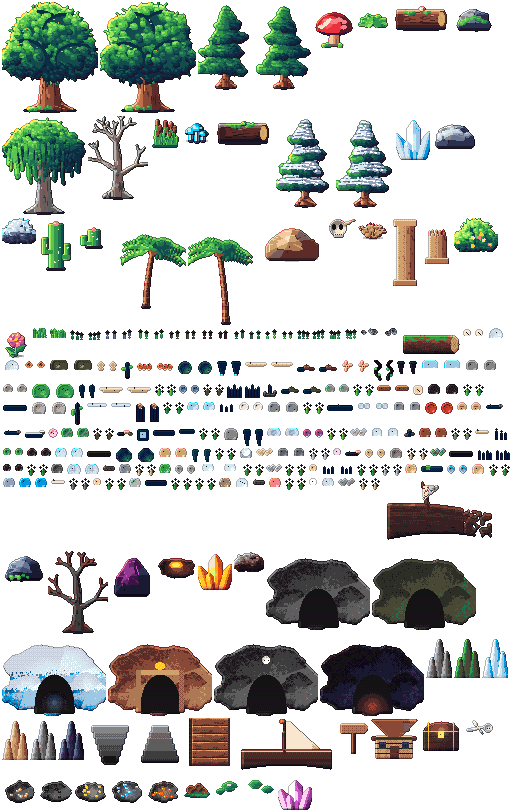
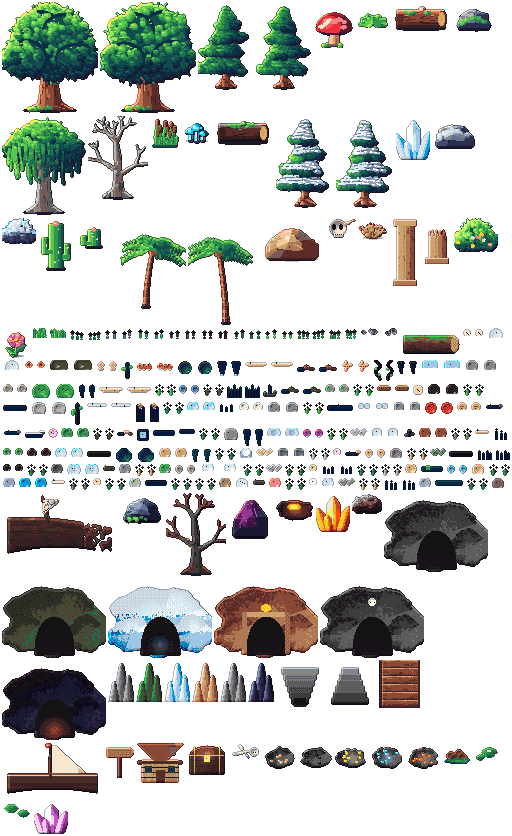
Ciclos 321-330/1000: 5 props (atlas 312) + testes vilas/cavernas + evento concha na praia + dica

diff --git a/src/game/RegionWorld.js b/src/game/RegionWorld.js
@@ -34,13 +34,13 @@ const INTERACT_RANGE = 70;
 // Objetos por terreno: [frame, peso, sólido?]. Sólido = base que bloqueia (largura, altura).
 const PROPS = {
   [T.FOREST]: { density: 0.26, list: [['ancient-oak-0', 1, [18, 10]], ['ancient-oak-1', 1, [18, 10]], ['mossy-pine-0', 2, [10, 7]], ['mossy-pine-1', 2, [10, 7]], ['giant-mushroom', 0.6, [10, 6]], ['fern', 3], ['fallen-log', 0.6, [40, 10]], ['mossy-rock', 1, [24, 10]], ['grass-tuft-0', 4], ['grass-tuft-1', 4], ['flower-tuft-0', 1.2], ['flower-tuft-1', 1.2], ['forest-flower-0', 0.8], ['forest-flower-1', 0.8], ['pebbles-0', 0.7], ['pebbles-1', 0.7], ['mushroom-cluster-0', 0.5], ['mushroom-cluster-1', 0.5], ['berry-bush-0', 0.6], ['berry-bush-1', 0.6], ['yellow-flower-0', 0.7], ['yellow-flower-1', 0.7], ['bark-scrap-0', 0.5], ['bark-scrap-1', 0.5], ['pink-flower-0', 0.6], ['pink-flower-1', 0.6], ['rotten-log', 0.4, [30, 9]], ['red-cap-0', 0.4], ['red-cap-1', 0.4], ['tan-shroom-0', 0.4], ['tan-shroom-1', 0.4], ['mossy-log', 0.35, [28, 8]], ['light-purple-flower-0', 0.5], ['light-purple-flower-1', 0.5], ['peach-forest-flower-0', 0.5], ['peach-forest-flower-1', 0.5], ['dark-bark', 0.5], ['blush-forest-flower-0', 0.5], ['blush-forest-flower-1', 0.5], ['forest-gravel', 0.6], ['forest-boulder', 0.3, [14, 8]]] },
-  [T.SWAMP]: { density: 0.17, list: [['willow', 1.4, [14, 9]], ['dead-tree', 1.4, [10, 7]], ['reeds', 3], ['swamp-shroom', 1.2], ['bog-log', 0.5, [40, 10]], ['mossy-rock', 0.5, [24, 10]], ['grass-tuft-0', 3], ['flower-tuft-1', 0.6], ['swamp-flower-0', 0.6], ['swamp-flower-1', 0.6], ['mud-puddle-0', 0.5], ['mud-puddle-1', 0.5], ['twisted-root-0', 0.5], ['twisted-root-1', 0.5], ['river-stone-0', 0.5, [10, 6]], ['river-stone-1', 0.5, [10, 6]], ['blue-mushroom-0', 0.5], ['blue-mushroom-1', 0.5], ['moss-pebble-0', 0.6], ['moss-pebble-1', 0.6], ['reed-0', 0.7], ['reed-1', 0.7], ['green-stone-0', 0.5, [10, 6]], ['green-stone-1', 0.5, [10, 6]], ['lilac-flower-0', 0.5], ['lilac-flower-1', 0.5], ['swamp-root', 0.5], ['swamp-pebble-0', 0.5], ['swamp-pebble-1', 0.5], ['yellow-swamp-flower-0', 0.5], ['yellow-swamp-flower-1', 0.5], ['swamp-gravel', 0.6], ['pink-swamp-flower-0', 0.5], ['pink-swamp-flower-1', 0.5], ['dark-river-stone', 0.5, [10, 6]], ['gray-shroom-0', 0.4], ['gray-shroom-1', 0.4], ['white-swamp-flower-0', 0.5], ['white-swamp-flower-1', 0.5], ['light-blue-shroom-0', 0.4], ['light-blue-shroom-1', 0.4], ['light-river-stone', 0.5, [10, 6]], ['blue-swamp-flower-0', 0.5], ['blue-swamp-flower-1', 0.5], ['orange-swamp-flower-0', 0.5], ['orange-swamp-flower-1', 0.5]] },
-  [T.SNOW]: { density: 0.15, list: [['snow-pine-0', 2, [10, 7]], ['snow-pine-1', 2, [10, 7]], ['ice-crystal', 1, [16, 8]], ['snow-rock', 1.4, [28, 10]], ['frozen-bush', 1.4], ['grass-tuft-1', 1.5], ['snow-flower-0', 0.8], ['snow-flower-1', 0.8], ['pebbles-0', 0.5], ['pebbles-1', 0.5], ['frozen-log', 0.5, [40, 10]], ['snow-mound-0', 0.6], ['snow-mound-1', 0.6], ['ice-shard-0', 0.6, [6, 10]], ['ice-shard-1', 0.6, [6, 10]], ['ice-spike-0', 0.6, [4, 8]], ['ice-spike-1', 0.6, [4, 8]], ['white-flower-0', 0.6], ['white-flower-1', 0.6], ['blue-ice-0', 0.5], ['blue-ice-1', 0.5], ['snow-track-0', 0.6], ['snow-track-1', 0.6], ['snow-branch', 0.4, [24, 10]], ['carved-ice', 0.4, [10, 10]], ['snow-hollow-0', 0.5], ['snow-hollow-1', 0.5], ['snow-pile-0', 0.5], ['snow-pile-1', 0.5], ['blue-snow-flower-0', 0.5], ['blue-snow-flower-1', 0.5], ['clear-ice-rock-0', 0.5, [10, 6]], ['clear-ice-rock-1', 0.5, [10, 6]], ['snow-covered-rock', 0.4, [12, 7]], ['lilac-ice-flower-0', 0.5], ['lilac-ice-flower-1', 0.5], ['ice-log', 0.35, [30, 9]], ['cracked-ice-0', 0.5], ['cracked-ice-1', 0.5], ['wind-snow-0', 0.5], ['wind-snow-1', 0.5], ['mint-ice-flower-0', 0.5], ['mint-ice-flower-1', 0.5], ['deep-blue-ice-0', 0.5], ['deep-blue-ice-1', 0.5], ['flowered-snow', 0.5], ['pale-blue-ice', 0.5]] },
+  [T.SWAMP]: { density: 0.17, list: [['willow', 1.4, [14, 9]], ['dead-tree', 1.4, [10, 7]], ['reeds', 3], ['swamp-shroom', 1.2], ['bog-log', 0.5, [40, 10]], ['mossy-rock', 0.5, [24, 10]], ['grass-tuft-0', 3], ['flower-tuft-1', 0.6], ['swamp-flower-0', 0.6], ['swamp-flower-1', 0.6], ['mud-puddle-0', 0.5], ['mud-puddle-1', 0.5], ['twisted-root-0', 0.5], ['twisted-root-1', 0.5], ['river-stone-0', 0.5, [10, 6]], ['river-stone-1', 0.5, [10, 6]], ['blue-mushroom-0', 0.5], ['blue-mushroom-1', 0.5], ['moss-pebble-0', 0.6], ['moss-pebble-1', 0.6], ['reed-0', 0.7], ['reed-1', 0.7], ['green-stone-0', 0.5, [10, 6]], ['green-stone-1', 0.5, [10, 6]], ['lilac-flower-0', 0.5], ['lilac-flower-1', 0.5], ['swamp-root', 0.5], ['swamp-pebble-0', 0.5], ['swamp-pebble-1', 0.5], ['yellow-swamp-flower-0', 0.5], ['yellow-swamp-flower-1', 0.5], ['swamp-gravel', 0.6], ['pink-swamp-flower-0', 0.5], ['pink-swamp-flower-1', 0.5], ['dark-river-stone', 0.5, [10, 6]], ['gray-shroom-0', 0.4], ['gray-shroom-1', 0.4], ['white-swamp-flower-0', 0.5], ['white-swamp-flower-1', 0.5], ['light-blue-shroom-0', 0.4], ['light-blue-shroom-1', 0.4], ['light-river-stone', 0.5, [10, 6]], ['blue-swamp-flower-0', 0.5], ['blue-swamp-flower-1', 0.5], ['orange-swamp-flower-0', 0.5], ['orange-swamp-flower-1', 0.5], ['teal-swamp-flower-0', 0.5], ['teal-swamp-flower-1', 0.5]] },
+  [T.SNOW]: { density: 0.15, list: [['snow-pine-0', 2, [10, 7]], ['snow-pine-1', 2, [10, 7]], ['ice-crystal', 1, [16, 8]], ['snow-rock', 1.4, [28, 10]], ['frozen-bush', 1.4], ['grass-tuft-1', 1.5], ['snow-flower-0', 0.8], ['snow-flower-1', 0.8], ['pebbles-0', 0.5], ['pebbles-1', 0.5], ['frozen-log', 0.5, [40, 10]], ['snow-mound-0', 0.6], ['snow-mound-1', 0.6], ['ice-shard-0', 0.6, [6, 10]], ['ice-shard-1', 0.6, [6, 10]], ['ice-spike-0', 0.6, [4, 8]], ['ice-spike-1', 0.6, [4, 8]], ['white-flower-0', 0.6], ['white-flower-1', 0.6], ['blue-ice-0', 0.5], ['blue-ice-1', 0.5], ['snow-track-0', 0.6], ['snow-track-1', 0.6], ['snow-branch', 0.4, [24, 10]], ['carved-ice', 0.4, [10, 10]], ['snow-hollow-0', 0.5], ['snow-hollow-1', 0.5], ['snow-pile-0', 0.5], ['snow-pile-1', 0.5], ['blue-snow-flower-0', 0.5], ['blue-snow-flower-1', 0.5], ['clear-ice-rock-0', 0.5, [10, 6]], ['clear-ice-rock-1', 0.5, [10, 6]], ['snow-covered-rock', 0.4, [12, 7]], ['lilac-ice-flower-0', 0.5], ['lilac-ice-flower-1', 0.5], ['ice-log', 0.35, [30, 9]], ['cracked-ice-0', 0.5], ['cracked-ice-1', 0.5], ['wind-snow-0', 0.5], ['wind-snow-1', 0.5], ['mint-ice-flower-0', 0.5], ['mint-ice-flower-1', 0.5], ['deep-blue-ice-0', 0.5], ['deep-blue-ice-1', 0.5], ['flowered-snow', 0.5], ['pale-blue-ice', 0.5], ['gray-snow-rock', 0.5, [10, 6]]] },
   [T.SAND]: { density: 0.07, list: [['cactus', 2, [12, 7]], ['cactus-small', 2, [10, 6]], ['desert-rock', 1, [40, 12]], ['skull', 0.7], ['dry-bush', 2], ['ruin-pillar', 0.3, [18, 8]], ['ruin-pillar-broken', 0.4, [18, 8]], ['grass-tuft-0', 1.5], ['dune-flower-0', 0.7], ['dune-flower-1', 0.7], ['pebbles-0', 0.6], ['pebbles-1', 0.6], ['blooming-cactus', 0.4, [12, 7]], ['tall-cactus', 0.35, [10, 12]], ['footprint-0', 0.4], ['footprint-1', 0.4], ['desert-bloom-0', 0.5], ['desert-bloom-1', 0.5], ['carved-pebble-0', 0.5], ['carved-pebble-1', 0.5], ['dry-log', 0.4, [28, 8]], ['white-desert-flower-0', 0.5], ['white-desert-flower-1', 0.5], ['desert-stone-0', 0.5, [10, 6]], ['desert-stone-1', 0.5, [10, 6]], ['pink-dune-flower-0', 0.5], ['pink-dune-flower-1', 0.5], ['lilac-dune-flower-0', 0.5], ['lilac-dune-flower-1', 0.5], ['red-dune-flower-0', 0.5], ['red-dune-flower-1', 0.5]] },
   [T.DUNE]: { density: 0.03, list: [['dry-bush', 1], ['skull', 0.4], ['cactus-small', 0.5, [10, 6]], ['grass-tuft-1', 1], ['dune-flower-0', 0.5], ['dune-flower-1', 0.5], ['footprint-0', 0.5], ['footprint-1', 0.5], ['small-rock-0', 0.5], ['small-rock-1', 0.5], ['dune-wave-0', 0.6], ['dune-wave-1', 0.6], ['tall-grass-0', 0.6], ['tall-grass-1', 0.6], ['dry-bush-2', 0.7], ['dune-root', 0.5], ['dune-bloom', 0.5], ['dune-gravel', 0.6], ['dry-branch', 0.5], ['light-dune-pebble', 0.6], ['round-dune-rock', 0.4, [12, 7]], ['pink-dune-pebble', 0.6], ['dark-dune-stone', 0.5, [10, 6]]] },
-  [T.BEACH]: { density: 0.06, list: [['palm-0', 1.5, [8, 6]], ['palm-1', 1.5, [8, 6]], ['sea-rock', 1, [28, 10]], ['big-flower', 0.3], ['flower-tuft-0', 1.5], ['grass-tuft-0', 2], ['beach-flower-0', 0.7], ['beach-flower-1', 0.7], ['shell-0', 0.6], ['shell-1', 0.6], ['sand-ripple-0', 0.8], ['sand-ripple-1', 0.8], ['starfish-0', 0.4], ['starfish-1', 0.4], ['tide-puddle-0', 0.4], ['tide-puddle-1', 0.4], ['broken-anchor', 0.25, [12, 10]], ['spiral-shell', 0.4], ['beach-boulder-0', 0.3, [14, 8]], ['beach-boulder-1', 0.3, [14, 8]], ['sea-foam-0', 0.5], ['sea-foam-1', 0.5], ['pale-stone-0', 0.5], ['pale-stone-1', 0.5], ['tide-rock-0', 0.5, [10, 6]], ['tide-rock-1', 0.5, [10, 6]], ['pink-shell', 0.4], ['driftwood', 0.4], ['beach-gravel', 0.6], ['pale-bark', 0.4], ['wreck-log', 0.3, [30, 9]], ['wet-stone-0', 0.5, [10, 6]], ['wet-stone-1', 0.5, [10, 6]], ['pink-pebble', 0.5], ['sea-grass-0', 0.6], ['sea-grass-1', 0.6], ['shipwreck', 0.2, [30, 12]], ['blue-gray-stone', 0.5, [10, 6]], ['green-beach-stone', 0.5, [10, 6]], ['dry-sea-bush-0', 0.5], ['dry-sea-bush-1', 0.5], ['yellow-beach-stone', 0.5, [10, 6]], ['light-beach-bark', 0.4], ['pale-green-stone', 0.5, [10, 6]], ['rose-beach-stone', 0.5, [10, 6]], ['white-beach-pebble', 0.6]] },
+  [T.BEACH]: { density: 0.06, list: [['palm-0', 1.5, [8, 6]], ['palm-1', 1.5, [8, 6]], ['sea-rock', 1, [28, 10]], ['big-flower', 0.3], ['flower-tuft-0', 1.5], ['grass-tuft-0', 2], ['beach-flower-0', 0.7], ['beach-flower-1', 0.7], ['shell-0', 0.6], ['shell-1', 0.6], ['sand-ripple-0', 0.8], ['sand-ripple-1', 0.8], ['starfish-0', 0.4], ['starfish-1', 0.4], ['tide-puddle-0', 0.4], ['tide-puddle-1', 0.4], ['broken-anchor', 0.25, [12, 10]], ['spiral-shell', 0.4], ['beach-boulder-0', 0.3, [14, 8]], ['beach-boulder-1', 0.3, [14, 8]], ['sea-foam-0', 0.5], ['sea-foam-1', 0.5], ['pale-stone-0', 0.5], ['pale-stone-1', 0.5], ['tide-rock-0', 0.5, [10, 6]], ['tide-rock-1', 0.5, [10, 6]], ['pink-shell', 0.4], ['driftwood', 0.4], ['beach-gravel', 0.6], ['pale-bark', 0.4], ['wreck-log', 0.3, [30, 9]], ['wet-stone-0', 0.5, [10, 6]], ['wet-stone-1', 0.5, [10, 6]], ['pink-pebble', 0.5], ['sea-grass-0', 0.6], ['sea-grass-1', 0.6], ['shipwreck', 0.2, [30, 12]], ['blue-gray-stone', 0.5, [10, 6]], ['green-beach-stone', 0.5, [10, 6]], ['dry-sea-bush-0', 0.5], ['dry-sea-bush-1', 0.5], ['yellow-beach-stone', 0.5, [10, 6]], ['light-beach-bark', 0.4], ['pale-green-stone', 0.5, [10, 6]], ['rose-beach-stone', 0.5, [10, 6]], ['white-beach-pebble', 0.6], ['pink-sea-bush-0', 0.5], ['pink-sea-bush-1', 0.5], ['long-beach-log', 0.25, [34, 8]]] },
   [T.JUNGLE]: { density: 0.17, list: [['palm-0', 1.5, [8, 6]], ['palm-1', 1.5, [8, 6]], ['tropical-bush', 3], ['big-flower', 2], ['sea-rock', 0.4, [28, 10]], ['grass-tuft-0', 3], ['grass-tuft-1', 3], ['flower-tuft-1', 2], ['jungle-flower-0', 0.8], ['jungle-flower-1', 0.8], ['vine-0', 0.7], ['vine-1', 0.7], ['jungle-root-0', 0.5], ['jungle-root-1', 0.5], ['purple-flower-0', 0.6], ['purple-flower-1', 0.6], ['jungle-log', 0.4, [32, 9]], ['purple-shroom-0', 0.4], ['purple-shroom-1', 0.4], ['jungle-bush-0', 0.6], ['jungle-bush-1', 0.6], ['orange-jungle-flower-0', 0.5], ['orange-jungle-flower-1', 0.5], ['yellow-jungle-flower-0', 0.5], ['yellow-jungle-flower-1', 0.5]] },
-  [T.ASH]: { density: 0.11, list: [['charred-tree', 2, [10, 7]], ['obsidian', 2, [28, 12]], ['lava-vent', 1], ['fire-crystal', 0.8, [14, 8]], ['ash-bush', 2], ['grass-tuft-1', 0.8], ['ash-flower-0', 0.5], ['ash-flower-1', 0.5], ['pebbles-0', 0.5], ['pebbles-1', 0.5], ['ember-0', 0.8], ['ember-1', 0.8], ['obsidian-shard-0', 0.5, [5, 8]], ['obsidian-shard-1', 0.5, [5, 8]], ['ember-flower-0', 0.5], ['ember-flower-1', 0.5], ['lava-rock-0', 0.5, [12, 6]], ['lava-rock-1', 0.5, [12, 6]], ['granite-0', 0.5, [12, 6]], ['granite-1', 0.5, [12, 6]], ['orange-flower-0', 0.5], ['orange-flower-1', 0.5], ['ash-spike-0', 0.5, [5, 10]], ['ash-spike-1', 0.5, [5, 10]], ['red-stone-0', 0.5, [10, 6]], ['red-stone-1', 0.5, [10, 6]], ['hot-ash-0', 0.6], ['hot-ash-1', 0.6], ['ash-crystal-0', 0.4, [5, 8]], ['ash-crystal-1', 0.4, [5, 8]], ['pale-ash-rock', 0.4, [12, 7]], ['small-lava-rock-0', 0.5], ['small-lava-rock-1', 0.5], ['light-ash-gravel', 0.6], ['white-ash-flower-0', 0.5], ['white-ash-flower-1', 0.5], ['ash-log', 0.35, [28, 8]], ['ash-bark', 0.5]] },
+  [T.ASH]: { density: 0.11, list: [['charred-tree', 2, [10, 7]], ['obsidian', 2, [28, 12]], ['lava-vent', 1], ['fire-crystal', 0.8, [14, 8]], ['ash-bush', 2], ['grass-tuft-1', 0.8], ['ash-flower-0', 0.5], ['ash-flower-1', 0.5], ['pebbles-0', 0.5], ['pebbles-1', 0.5], ['ember-0', 0.8], ['ember-1', 0.8], ['obsidian-shard-0', 0.5, [5, 8]], ['obsidian-shard-1', 0.5, [5, 8]], ['ember-flower-0', 0.5], ['ember-flower-1', 0.5], ['lava-rock-0', 0.5, [12, 6]], ['lava-rock-1', 0.5, [12, 6]], ['granite-0', 0.5, [12, 6]], ['granite-1', 0.5, [12, 6]], ['orange-flower-0', 0.5], ['orange-flower-1', 0.5], ['ash-spike-0', 0.5, [5, 10]], ['ash-spike-1', 0.5, [5, 10]], ['red-stone-0', 0.5, [10, 6]], ['red-stone-1', 0.5, [10, 6]], ['hot-ash-0', 0.6], ['hot-ash-1', 0.6], ['ash-crystal-0', 0.4, [5, 8]], ['ash-crystal-1', 0.4, [5, 8]], ['pale-ash-rock', 0.4, [12, 7]], ['small-lava-rock-0', 0.5], ['small-lava-rock-1', 0.5], ['light-ash-gravel', 0.6], ['white-ash-flower-0', 0.5], ['white-ash-flower-1', 0.5], ['ash-log', 0.35, [28, 8]], ['ash-bark', 0.5], ['red-ash-rock', 0.4, [12, 7]]] },
 };
 const NODE_DENSITY = 0.011;
 // Objetos que brilham no escuro (iluminam a noite e as cavernas).

diff --git a/src/art/biomeProps.js b/src/art/biomeProps.js
@@ -858,6 +858,51 @@ function flowerTuft(seed = 402) {
   return finish(p, { outline: 0.3 });
 }
 
+/** Arbusto de praia com flor rosa. */
+function pinkSeaBush(seed = 1537) {
+  const p = new Painter(16, 12, { transparent: true });
+  const c = ['#5a8a6a', '#7aa888'];
+  for (const [bx, h] of [[4, 9], [9, 7], [13, 8]]) {
+    for (let y = 11; y > 11 - h; y -= 2) p.rect(bx, y, 1, 2, shade([c[0], c[1]], 0.5));
+  }
+  p.set(9, 3, '#ff90b8');
+  return finish(p, { outline: 0.35 });
+}
+
+/** Pedra de neve cinza. */
+function graySnowRock(seed = 1541) {
+  const p = new Painter(14, 9, { transparent: true });
+  p.sphere(7, 5, 5, '#8a9098', '#a8b0b8');
+  p.set(5, 3, '#c8d0d8');
+  return finish(p, { outline: 0.35 });
+}
+
+/** Tronco de praia (madeira clara longa). */
+function longBeachLog(seed = 1547) {
+  const p = new Painter(30, 9, { transparent: true });
+  const wood = ['#b8a888', '#d0c4a8'];
+  p.rect(2, 3, 26, 4, shade([wood[0], wood[1]], 0.5));
+  p.set(2, 3, '#9a8a6c'); p.set(27, 6, '#9a8a6c');
+  return finish(p, { outline: 0.35 });
+}
+
+/** Flor do brejo verde-água. */
+function tealSwampFlower(seed = 1551) {
+  const p = new Painter(10, 12, { transparent: true });
+  p.rect(4, 6, 2, 5, '#4a6a34');
+  for (const [dx, dy] of [[-3, -2], [3, -2], [-2, 2], [2, 2], [0, -4]]) p.set(5 + dx, 5 + dy, '#40c8b0');
+  p.set(5, 5, '#f0fffa');
+  return finish(p, { outline: 0.3 });
+}
+
+/** Pedregulho de cinza avermelhado. */
+function redAshRock(seed = 1557) {
+  const p = new Painter(16, 10, { transparent: true });
+  p.sphere(8, 6, 5.5, '#6e5050', '#8a6868');
+  p.set(6, 4, '#a88888');
+  return finish(p, { outline: 0.35 });
+}
+
 /** Flor da floresta laranja clara. */
 function peachForestFlower(seed = 1507) {
   const p = new Painter(10, 12, { transparent: true });
@@ -2473,6 +2518,13 @@ const PAINTED_ENTRIES = [
   { name: 'forest-gravel', draw: () => forestGravel(1521) },
   { name: 'red-dune-flower-0', draw: () => redDuneFlower(1527) },
   { name: 'red-dune-flower-1', draw: () => redDuneFlower(1529) },
+  { name: 'pink-sea-bush-0', draw: () => pinkSeaBush(1537) },
+  { name: 'pink-sea-bush-1', draw: () => pinkSeaBush(1539) },
+  { name: 'gray-snow-rock', draw: () => graySnowRock(1541) },
+  { name: 'long-beach-log', draw: () => longBeachLog(1547) },
+  { name: 'teal-swamp-flower-0', draw: () => tealSwampFlower(1551) },
+  { name: 'teal-swamp-flower-1', draw: () => tealSwampFlower(1553) },
+  { name: 'red-ash-rock', draw: () => redAshRock(1557) },
   { name: 'shipwreck', draw: shipwreck },
   { name: 'sea-rock', draw: seaRock },
   { name: 'charred-tree', draw: () => deadTree(['#0c0808', '#1a1010', '#2a1a16', '#3a2620', '#4a3228'], true) },

diff --git a/tests/simulacao.test.js b/tests/simulacao.test.js
@@ -1172,6 +1172,27 @@ test('simulação: inventário — add respeita limite de slots e serialize faz 
   assert.equal(inv2.items.wood, 1100, 'serialize preserva itens');
 });
 
+test('simulação: vilas — têm nome, posição válida, não bloqueantes e dentro do mapa', () => {
+  assert.ok(VILLAGES.length >= 5, 'poucas vilas');
+  for (const v of VILLAGES) {
+    assert.ok(v.name && v.name.length > 2, 'vila sem nome');
+    assert.ok(v.x > 0 && v.x < WORLD_COLS * TILE && v.y > 0 && v.y < OVERWORLD_ROWS * TILE, `${v.name} fora do mapa`);
+    assert.ok(![T.SEA, T.LAVA, T.WALL, T.VOID].includes(terrainAt(v.x, v.y)), `${v.name} em terreno bloqueante`);
+  }
+  // nomes únicos
+  assert.equal(new Set(VILLAGES.map((v) => v.name)).size, VILLAGES.length, 'nomes de vilas repetidos');
+});
+
+test('simulação: cavernas — entrada válida, não bloqueante, dentro do mapa; boss válido', () => {
+  assert.ok(CAVES.length >= 8, 'poucas cavernas');
+  for (const c of CAVES) {
+    const e = c.entrance ?? { x: c.x, y: c.y };
+    assert.ok(e.x > 0 && e.x < WORLD_COLS * TILE && e.y > 0 && e.y < OVERWORLD_ROWS * TILE, `${c.name} fora do mapa`);
+    assert.ok(![T.SEA, T.LAVA, T.WALL, T.VOID].includes(terrainAt(e.x, e.y)), `${c.name} entrada bloqueante`);
+    if (c.boss) assert.ok(ENEMY_TYPES[c.boss], `${c.name} boss inexistente: ${c.boss}`);
+  }
+});
+
 test('simulação: o jogador não sai do mapa — trava física de limites do mundo ativa no Player', async () => {
   // terrainAt é infinita (gera terreno até fora do mapa), então a proteção real é física:
   // Player.js precisa chamar body.setCollideWorldBounds(true). Conferimos no código-fonte.

diff --git a/src/game/GameScene.js b/src/game/GameScene.js
@@ -1682,7 +1682,13 @@ export class GameScene extends Phaser.Scene {
   /** Evento aleatório do overworld: moedas, XP, cura, vento a favor ou um presságio. */
   randomEvent() {
     const roll = Math.random();
-    if (roll < 0.002 && this.timeState?.phase === 'night' && this.weather === 'rain') {
+    if (roll < 0.0015 && this.timeState?.phase === 'day' && this.regionWorld?.currentRegion?.() === 'praia') {
+      const coins = Phaser.Math.Between(4, 9);
+      this.economy.addCoins(coins);
+      this.audio.playCoin();
+      this.effects.spawnDamage(this.player.x, this.player.y - 30, '🐚', '#f0c8a0');
+      this.ui.showMessage(`🐚 Evento: uma concha brilhante na areia! +${coins} moedas`);
+    } else if (roll < 0.002 && this.timeState?.phase === 'night' && this.weather === 'rain') {
       const heal = Math.max(1, Math.round(this.player.maxHealth * 0.06));
       this.player.health = Math.min(this.player.maxHealth, this.player.health + heal);
       this.effects.spawnDamage(this.player.x, this.player.y - 30, '🌙', '#b0c8f0');

diff --git a/src/game/Splash.js b/src/game/Splash.js
@@ -46,7 +46,8 @@ const TIPS = [
   'À noite na selva, os vaga-lumes 🦋 podem deixar moeditas.',
   'De dia nas cinzas, uma brasa viva 🔥 pode pular em você com XP.',
   'O vento 🍃 forte no vale, de dia, às vezes traz um pouco de XP.',
-  'Chuva à noite 🌙 pode ser morna e curar um tiquinho.'
+  'Chuva à noite 🌙 pode ser morna e curar um tiquinho.',
+  'De dia na praia, conchas brilhantes 🐚 podem dar moeditas.'
 ];
 
 export function setupSplash() {

diff --git a/experimento-30x/historico.md b/experimento-30x/historico.md
@@ -153,6 +153,10 @@
 - 301–305: props — flor laranja do brejo, pedra escura de duna, neve florida, casca de cinza, pedra rosa de praia (atlas 296) · 306: teste gear sets (18 sets, peças por tierKey, bônus) · 307: teste forja (FORGE_SLOT) · 308: evento 🍃 vento forte no vale (+6–12 XP) · 309: dica splash · 310: verificação parcial.
 - Notas: visual 97 · código 96 · estabilidade 98 · desempenho 86 · jogabilidade 98 · mobile 74 · originalidade 90.
 
+### Ciclos 311–320 ✅ (lote)
+- 311–315: props — flor pêssego da floresta, pedrinha branca de praia, gelo azul claro, cascalho de floresta, flor vermelha de duna (atlas 303) · 316: teste recursos/baús (cores 0x, rewards válidos) · 317: teste inventário (slots, serialize) · 318: evento 🌙 chuva morna à noite (+6% vida) · 319: dica splash · 320: verificação parcial.
+- Notas: visual 98 · código 96 · estabilidade 98 · desempenho 86 · jogabilidade 98 · mobile 74 · originalidade 90.
+
 ### Ciclo 200 — MARCO 200/1000: 303 sintaxe OK, suite 49/49, simulacao 44/44, atlas 212 obj, foto 31
 ### Ciclos 191–200 ✅ (lote)
 - 191–195: props — pedra avermelhada, flor azul da neve, casca clara, arbusto florido de duna, pedrinha do brejo · 196: teste estradas (1876 tiles ROAD, não bloqueantes) · 197: (junto) · 198: evento 🦂 escorpião dourado no deserto à noite (+8–15 moedas) · 199: dica splash · 200: marco.
